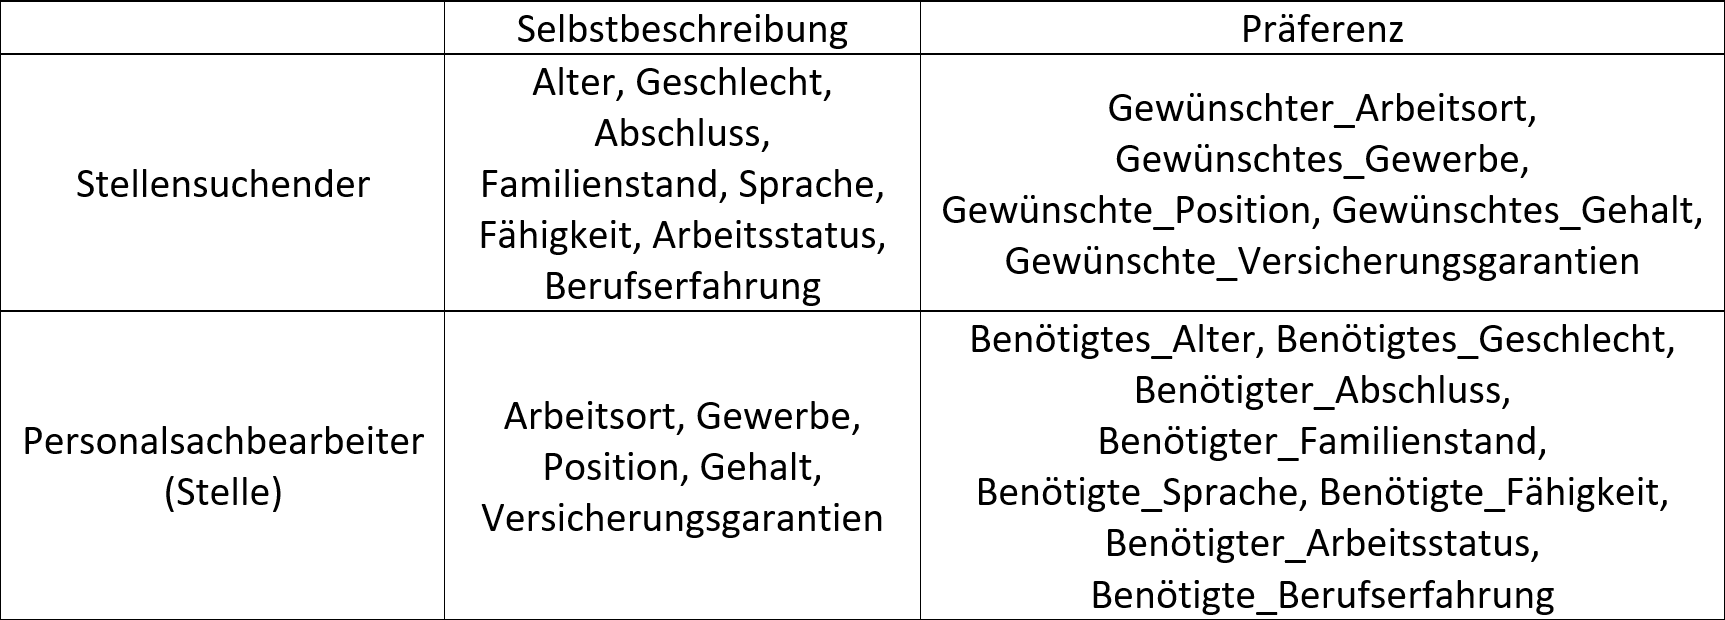
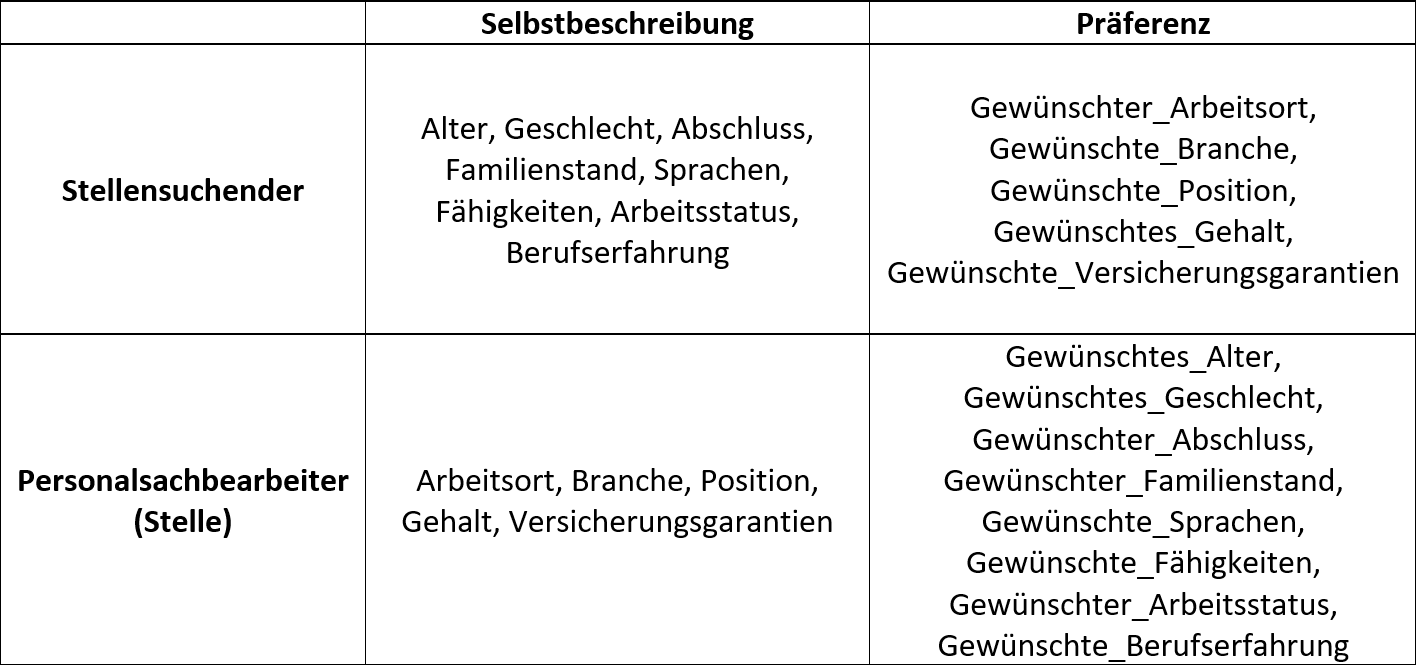
WIP Kapitel 4

diff --git a/chapters/verwandteArbeiten.tex b/chapters/verwandteArbeiten.tex
@@ -1,11 +1,11 @@
 \shorthandoff{"}
 \chapter{Verwandte Arbeiten}
 \label{ch:verwandteArbeiten}
-Bei der Literaturanalyse ist festzustellen, dass bereits einige Publikationen den Anspruch verfolgten, Empfehlungssysteme zur automatisierten Bestimmung des \acp{PJFit} zu entwickeln. Aus dem Blickwinkel der Organisationspsychologie handelt es sich bei diesem Begriff um eine Version des \acp{PEFit}, bei welcher für die Umgebung die Aspekte einer Stelle betrachtet werden \cite[S. 1ff.]{edwards:1991}\cite[S. 3]{malinowski:2006}. Jedoch bezogen sich einige Forscher in ihren Veröffentlichungen nicht auf das in Kapitel \ref{ch:personEnvironmentFit} vorgestellte Konzept der Psychologie. Obwohl der Begriff des \acp{PJFit} verwendet wurde, bestimmten die Wissenschaftler die Kongruenz häufig ausschließlich auf der Ebene des Anforderungen-Fähigkeiten Fits. Dieser Sachverhalt ist beispielsweise in den Publikationen von \textcite[S. 1ff.]{luo:2019}, \textcite[S. 1ff.]{qin:2018} und \textcite[S. 1ff.]{personJobFit:2018} zu beobachten.
+Bei der Literaturanalyse ist festzustellen, dass bereits einige Publikationen den Anspruch verfolgten, Empfehlungssysteme zur automatisierten Bestimmung des \acp{PJFit} zu entwickeln. Aus dem Blickwinkel der Organisationspsychologie handelt es sich bei diesem Begriff um eine Version des \acp{PEFit}, bei welcher für die Umgebung die Aspekte einer Stelle betrachtet werden \cite[S. 1ff.]{edwards:1991}\cite[S. 3]{malinowski:2006}. Jedoch bezogen sich einige Forscher in ihren Veröffentlichungen nicht auf das in Kapitel \ref{ch:personEnvironmentFit} vorgestellte Konzept der Psychologie. Obwohl der Begriff des \acp{PJFit} verwendet wurde, bestimmten die Wissenschaftler die Kongruenz häufig ausschließlich auf der Ebene des Anforderungen-Fähigkeiten Fits. Dieser Sachverhalt ist beispielsweise bei \textcite[S. 1ff.]{luo:2019}, \textcite[S. 1ff.]{qin:2018} und \textcite[S. 1ff.]{personJobFit:2018} zu beobachten.
 
 \section{Nicht auf dem P-E Fit basierende Systeme}
 \label{ch:verwandteArbeiten:nichtAufDemPEFitBasierend}
-\textcite[S. 1, Z. 1f.]{personJobFit:2018} definierten den \ac{PJFit} als den "Prozess, bei dem das richtige Talent mit der richtigen Stelle zusammengeführt wird, indem die Talentkompetenzen identifiziert werden, welche für die Stelle erforderlich sind."\footnote{"process of matching the right talent for the right job by identifying talent competencies that are required for the job." - \textcite[S. 1, Z. 1f.]{personJobFit:2018}} Dementsprechend implementierten \textcite[S. 1ff.]{personJobFit:2018}, wie auch \textcite[S. 1ff.]{luo:2019} und \textcite[S. 1ff.]{qin:2018}, ein neuronales Netz, welches voraussagte, ob eine Person aufgrund ihrer Qualifikationen für eine Stelle geeignet ist. Hierfür bereiteten sie unstrukturierte Stellenausschreibungen und Lebensläufe strukturiert auf. Anschließend nutzten die drei Forschungsgruppen die gewonnenen Daten, um anhand verschiedener Verfahren vorauszusagen, ob die Fähigkeiten der Kandidaten die Anforderungen offener Stellen erfüllen \cite[S. 1ff.]{luo:2019}\cite[S. 1ff.]{qin:2018}\cite[S. 1ff.]{personJobFit:2018}.%Somit implementierten diese Wissenschaftler ausschließlich Lösungen zur Bestimmung des Anforderungen-Fähigkeiten Fits.
+\textcite[S. 1, Z. 1f.]{personJobFit:2018} definierten den \ac{PJFit} als den "Prozess, bei dem das richtige Talent mit der richtigen Stelle zusammengeführt wird, indem die Talentkompetenzen identifiziert werden, welche für die Stelle erforderlich sind."\footnote{"process of matching the right talent for the right job by identifying talent competencies that are required for the job." - \textcite[S. 1, Z. 1f.]{personJobFit:2018}} Dementsprechend implementierten \textcite[S. 1ff.]{personJobFit:2018}, wie auch \textcite[S. 1ff.]{luo:2019} und \textcite[S. 1ff.]{qin:2018}, ein neuronales Netz, welches voraussagte, ob eine Person aufgrund ihrer Qualifikationen für eine Stelle geeignet ist. Hierfür bereiteten sie unstrukturierte Stellenausschreibungen und Lebensläufe strukturiert auf. Anschließend nutzten die drei Forschergruppen die gewonnenen Daten, um anhand verschiedener Verfahren vorauszusagen, ob die Fähigkeiten der Kandidaten die Anforderungen verschiedener offener Stellen erfüllen \cite[S. 1ff.]{luo:2019}\cite[S. 1ff.]{qin:2018}\cite[S. 1ff.]{personJobFit:2018}.%Somit implementierten diese Wissenschaftler ausschließlich Lösungen zur Bestimmung des Anforderungen-Fähigkeiten Fits.
 
 Empfehlungssysteme, welche neben den Präferenzen der Personalverantwortlichen an die Fähigkeiten potentieller Mitarbeiter auch die Wünsche der Kandidaten berücksichtigen, bezeichneten \textcite[S. 4]{malinowski:2006} als bilaterale Empfehlungssysteme. Solche Anwendungen beziehen neben dem Anforderungen-Fähigkeiten Fit folglich auch die Bedürfnisse-Angebote Kongruenz in den Vorschlagsprozess ein. Verschiedene Forschergruppen aus dem Umfeld von \textcite[S. 1ff.]{malinowski:2006} entwickelten mehrere bilaterale Recommender Engines, welche in unterschiedlichen Publikationen vorgestellt wurden. Dabei bezogen sich die Wissenschaftler auf das in Kapitel \ref{ch:personEnvironmentFit} vorgestellte Konzept des \acp{PEFit} \cite[S. 4f.]{keim:2007}\cite[S. 3f.]{keim:2005}\cite[S. 3f.]{malinowski:2005}\cite[S. 3f.]{malinowski:2006}\cite[S. 3ff.]{malinowski:2008}. Alle diese Implementierungsmethoden basieren auf einem von \textcite[S. 1ff.]{faerber:2003} vorgestellten Empfehlungssystem.
 
@@ -24,19 +24,19 @@ Empfehlungssysteme, welche neben den Präferenzen der Personalverantwortlichen a
 	\label{fig:verwandteArbeiten:abb1}
 \end{figure}
 
-In Abbildung \ref{fig:verwandteArbeiten:abb1} stand $a$ für Attribute aus dem Lebenslauf des Bewerbers, wie dem Namen seiner Hochschule oder der Abschlussnote seines Studiums \cite[S. 4]{malinowski:2006}. Variable $x$ symbolisierte einen Personalsachbearbeiter mitsamt eines Stellenprofils, welches dieser besetzen soll. Dessen Entscheidung, ob ein Bewerber für die Tätigkeit qualifiziert ist oder nicht, wurde über den booleschen Wert $v$ ausgedrückt \cite[S. 6ff.]{faerber:2003}.
+In Abbildung \ref{fig:verwandteArbeiten:abb1} steht $a$ für Attribute aus dem Lebenslauf eines Bewerbers, wie dem Namen seiner Hochschule oder der Abschlussnote seines Studiums \cite[S. 4]{malinowski:2006}. Variable $x$ symbolisiert einen Personalsachbearbeiter mitsamt eines Stellenprofils, welches dieser besetzen soll. Dessen Entscheidung, ob ein Bewerber für die Tätigkeit qualifiziert ist oder nicht, wird über den booleschen Wert $v$ ausgedrückt \cite[S. 6ff.]{faerber:2003}.
 
 \textcite[S. 4ff.]{faerber:2003} bestimmten aus diesen Faktoren ein latentes Variablenmodell. Hierbei wurden bekannte Entscheidungen eines Personalsachbearbeiters hinsichtlich der Eignung von Bewerbern für eine Stelle erfasst. Aus diesen wurden nicht direkt messbare Variablen $z$ abgeleitet, welche dessen Beurteilungen beeinflussten. Über die latenten Variablen $z$ und die Attribute $a$ bestimmten die Autoren Wahrscheinlichkeiten, mit welchen ein Personalsachbearbeiter die vorliegenden Attribute eines Kandidaten als qualifiziert oder unqualifiziert bewerten würde \cite[S. 4ff.]{faerber:2003}.
 
-Diesen Empfehlungsansatz nutzten \textcite[S. 4f.]{malinowski:2006} als Grundlage für ein neues Empfehlungssystem. Die Wissenschaftler stellten eine bilaterale Anwendung vor, welche neben den Präferenzen der Personalsachbearbeiter auch die Wünsche der Kandidaten berücksichtigen sollte.
+Diesen Empfehlungsansatz nutzten \textcite[S. 4f.]{malinowski:2006} als Grundlage für ein neues Empfehlungssystem. Die Wissenschaftler stellten eine bilaterale Anwendung vor, welche neben den Präferenzen der Personalsachbearbeiter auch die Wünsche der Kandidaten berücksichtigte.
 
 \subsection{Einbeziehung von Präferenzen der Kandidaten}
 \label{ch:verwandteArbeiten:aufDemPEFitBasierendeBilateraleSysteme:einbeziehungKandidaten}
 Um neben den Präferenzen der Personalsachbearbeiter auch die Wünsche der Kandidaten in den Vorschlagsprozess einzubeziehen, erweiterten \textcite[S. 4f.]{malinowski:2006} das von \textcite[S. 4ff.]{faerber:2003} entwickelte Empfehlungssystem um eine zusätzliche Komponente für Stellensuchende. Diese orientierte sich ebenfalls am Aufbau von Abbildung \ref{fig:verwandteArbeiten:abb1}. Bei der neuen Komponente stand $x$ für den Kandidaten und $a$ für die Attribute der Stellenausschreibung. Auch hier bestimmten die Forscher latente Variablen $z$, welche sie über vergangene Stellenprofil-Bewertungen von Studenten ermittelten. Über diese sagten sie voraus, mit welcher Wahrscheinlichkeit ein Kandidat eine Stelle als passend zu seinen Präferenzen bewerten würde \cite[S. 4f.]{malinowski:2006}.
 
-Bei einer Evaluation des Systems stellten \textcite[S. 6f.]{malinowski:2006} fest, dass die Ergebnisse der Komponente zur Empfehlung von Kandidaten nahezu vergleichbar zur manuellen Auswahl eines menschlichen Personalsachbearbeiters waren. Auch beim Stellenempfehlungssystem kamen die Wissenschaftler zu der Erkenntnis, dass die Ergebnisse bis auf wenige Ausnahmen vergleichbar zur manuellen Selektion der Kandidaten waren. \textcite[S. 7]{keim:2007} bestätigte ebenfalls, dass beide Empfehlungsmodule eine hohe Genauigkeit aufweisen konnten.
+Bei einer Evaluation des Systems stellten \textcite[S. 6f.]{malinowski:2006} fest, dass die Ergebnisse der Komponente zur Empfehlung von Kandidaten nahezu vergleichbar zur manuellen Auswahl eines menschlichen Personalsachbearbeiters waren. Auch beim Stellenempfehlungssystem kamen die Wissenschaftler zu der Erkenntnis, dass die Ergebnisse bis auf wenige Ausnahmen vergleichbar zur manuellen Selektion der Kandidaten waren.%\textcite[S. 7]{keim:2007} bestätigte ebenfalls, dass beide Empfehlungsmodule eine hohe Genauigkeit aufweisen konnten.
 
-Zum Vorgehen von \textcite[S. 3ff.]{malinowski:2006} ist festzustellen, dass das bilaterale Empfehlungssystem ursprünglich in Anlehnung an das Konzept des \acp{PEFit} entwickelt wurde. Dabei sollten sowohl Präferenzen von Personalsachbearbeitern als auch Wünsche von Stellensuchenden berücksichtigt werden. Allerdings ist es in der vorgestellten Anwendung nur möglich, entweder zu den Präferenzen von Personalsachbearbeitern passende Kandidaten oder mit den Wünschen von Bewerbern kompatible Stellen zu ermitteln. Es ist nicht vorgesehen, Kandidaten für Positionen zu empfehlen und dabei gleichzeitig die Präferenzen von Bewerbern und Personalsachbearbeitern zu berücksichtigen. Daher ist kritisch anzumerken, dass die Anwendung von \textcite[S. 3ff.]{malinowski:2006} zwar die Präferenzen beider Parteien einbezog, dieses Vorgehen aber nicht der Theorie des \acp{PEFit} entspricht.
+Zum Vorgehen von \textcite[S. 3ff.]{malinowski:2006} ist festzustellen, dass das bilaterale Empfehlungssystem ursprünglich in Anlehnung an das Konzept des \acp{PEFit} entwickelt wurde. Dabei sollten sowohl Präferenzen von Personalsachbearbeitern als auch Wünsche von Stellensuchenden berücksichtigt werden. Allerdings ist es in der vorgestellten Anwendung nur möglich, entweder zu den Präferenzen von Personalsachbearbeitern passende Kandidaten oder mit den Wünschen von Bewerbern kompatible Stellen zu ermitteln. Es ist nicht vorgesehen, Kandidaten für Positionen zu empfehlen und dabei gleichzeitig die Präferenzen von Bewerbern und Personalsachbearbeitern zu berücksichtigen. Daher ist kritisch anzumerken, dass die Anwendung von \textcite[S. 1ff.]{malinowski:2006} zwar die Präferenzen beider Parteien einbezog, dieses Vorgehen aber nicht der Theorie des \acp{PEFit} entspricht.
 
 Ein Empfehlungssystem, welches das Konzept des \acp{PEFit} dagegen erfüllte, stellten \textcite[S. 1ff.]{malinowski:2005} in einer anderen Publikation vor.
 
@@ -75,13 +75,13 @@ Im letzten Schritt des Systems errechneten \textcite[S. 9f.]{malinowski:2005} au
 	R' = \alpha * t'_{M*y} * (1-\alpha) * r'_{x,y,v}
 	\label{frml:verwandteArbeiten:formel2}
 \end{equation}
-In Formel \ref{frml:verwandteArbeiten:formel2} stand $t'_{M*y}$ für die Liste der Vertrauensbeziehungen und $r'_{x,y,v}$ für die fachlichen Bewertungen der Kandidaten. Für $\alpha$ setzten \textcite[S. 4ff.]{malinowski:2005} den Wert 0.5 ein. Kritisch merkten sie zu Formel \ref{frml:verwandteArbeiten:formel2} an, dass diese noch nicht optimal sei und weiterer Forschung bedarf \cite[S. 9]{malinowski:2005}.
+In Formel \ref{frml:verwandteArbeiten:formel2} steht $t'_{M*y}$ für die Liste der Vertrauensbeziehungen und $r'_{x,y,v}$ für die fachlichen Bewertungen der Kandidaten. Für $\alpha$ setzten \textcite[S. 4ff.]{malinowski:2005} den Wert 0.5 ein. Kritisch merkten sie zu Formel \ref{frml:verwandteArbeiten:formel2} an, dass diese noch nicht optimal sei und weiterer Forschung bedarf \cite[S. 9]{malinowski:2005}.
 
 Eine Evaluation des Gesamtsystems konnte in der Literatur nicht identifiziert werden. In der Publikation von \textcite[S. 13ff.]{malinowski:2008} findet sich lediglich eine Validierung der Komponente zur Berechnung des Vertrauens zwischen Teammitgliedern und potentiellen Kandidaten. Hierbei kamen die Wissenschaftler zu der Erkenntnis, dass deren System eine höhere Genauigkeit als eine zufällige Vorhersage aufweisen konnte. Allerdings merkten die Forscher an, dass ihre Testgruppe mit 21 Teilnehmern zu klein sei, um signifikante Resultate zu erzielen \cite[S. 13ff.]{malinowski:2008}. Die Autoren validierten gemäß der Forschungsfrage dieser Master-Thesis jedoch nicht, ob die erwarteten Ergebnisse des \acp{PEFit} von deren Empfehlungssystem reproduziert werden konnten. Somit bleibt ungewiss, ob auf Seiten der Personalsachbearbeiter die erwartete Arbeitsleistung der vorgeschlagenen Kandidaten und aus Perspektive der Mitarbeiter die Zufriedenheit mit der Stelle und den Teamkollegen zunahm.
 
 Die Berechnung der gegenseitigen Vertrauensbeziehungen zwischen bestehenden Teammitgliedern und potentiellen Kandidaten nutzte auch \textcite[S. 1ff.]{keim:2007}. Er präsentierte ein Framework, welches Personen in passende Projektteams einordnen und dabei sowohl Fähigkeiten als auch zwischenmenschliche Attribute berücksichtigen sollte \cite[S. 1ff.]{keim:2007}.
 
-\subsection{Framework zur Bestimmung von Person-Job und Person-Team Fit}
+\subsection{Mehrschichtiges Framework}
 \label{ch:verwandteArbeiten:aufDemPEFitBasierendeBilateraleSysteme:pjUndPtFit}
 Das von \textcite[S. 5]{keim:2007} vorgestellte Framework ist in Abbildung \ref{fig:verwandteArbeiten:abb3} dargestellt. Es bestand aus drei Schichten.
 
@@ -93,11 +93,11 @@ Das von \textcite[S. 5]{keim:2007} vorgestellte Framework ist in Abbildung \ref{
 	\label{fig:verwandteArbeiten:abb3}
 \end{figure}
 
-In Abbildung \ref{fig:verwandteArbeiten:abb3} ist zu erkennen, dass sich die mittlere Schicht des Frameworks von \textcite[S. 5ff.]{keim:2007} aus vier Komponenten zusammensetzte. Diese vier Module luden die Daten der untersten Schicht und filterten sie entsprechend ihrer Funktion. Dabei unterstützten die beiden auf der linken Seite abgebildeten Module die Stellen- bzw. Kandidatensuche. Die Komponenten der rechten Seite erleichterten die Bestimmung geeigneter Teampartner \cite[S. 5]{keim:2007}.
+In Abbildung \ref{fig:verwandteArbeiten:abb3} ist zu erkennen, dass sich die mittlere Schicht des Frameworks von \textcite[S. 5ff.]{keim:2007} aus vier Komponenten zusammensetzte. Diese vier Module luden die Daten der untersten Schicht und filterten diese entsprechend ihrer Funktion. Dabei unterstützen die beiden auf der linken Seite abgebildeten Module die Stellen- bzw. Kandidatensuche und die Komponenten der rechten Seite erleichterten die Bestimmung geeigneter Teampartner \cite[S. 5]{keim:2007}.
 
-Das Lebenslaufempfehlungssystem in Abbildung \ref{fig:verwandteArbeiten:abb3} entsprach der von \textcite[S. 8ff.]{faerber:2003} entwickelten Anwendung \cite[S. 6]{keim:2007}, welche in Kapitel \ref{ch:verwandteArbeiten:aufDemPEFitBasierendeBilateraleSysteme:grundlegendesEmpfelungssystem} vorgestellt wurde. Beim Stellenempfehlungssystem handelte es sich um die von \textcite[S. 4ff.]{malinowski:2006} adaptierte Version des Lebenslaufempfehlungssystems, mit welcher Personen zu ihren Präferenzen passende Stellenausschreibungen ermitteln konnten \cite[S. 6]{keim:2007}. Dieses wurde in Kapitel \ref{ch:verwandteArbeiten:aufDemPEFitBasierendeBilateraleSysteme:einbeziehungKandidaten} behandelt. Das vorhersagende Vertrauensmodul entsprach dem in Kapitel \ref{ch:verwandteArbeiten:aufDemPEFitBasierendeBilateraleSysteme:bilateraleVertrauensbestimmung} behandelten Ansatz zur Vorhersage von Vertrauensbeziehungen zwischen potentiellen Teammitgliedern \cite[S. 8]{keim:2007}. Dieses wurde in den Publikationen von \textcite[S. 5ff.]{keim:2005} und \textcite[S. 4ff.]{malinowski:2005} detailliert vorgestellt. Das beschreibende Vertrauensmodul erfasste explizit vergebene Vertrauensbewertungen von Teammitgliedern in Form einer Ontologie und repräsentierte diese optisch in Form eines Graphen. Über diese Darstellung konnten Anwender soziale Beziehungen durchsuchen und analysieren. Auf diese Weise sollten sie besser entscheiden können, mit welchen Personen sie eine Zusammenarbeit eingehen möchten \cite[S. 7]{keim:2007}.
+Das Lebenslaufempfehlungssystem in Abbildung \ref{fig:verwandteArbeiten:abb3} entsprach der von \textcite[S. 8ff.]{faerber:2003} entwickelten Anwendung \cite[S. 6]{keim:2007}, welche in Kapitel \ref{ch:verwandteArbeiten:aufDemPEFitBasierendeBilateraleSysteme:grundlegendesEmpfelungssystem} vorgestellt wurde. Beim Stellenempfehlungssystem handelte es sich um die von \textcite[S. 4ff.]{malinowski:2006} adaptierte Version des Lebenslaufempfehlungssystems, mit welcher Personen zu ihren Präferenzen passende Stellenausschreibungen ermitteln können \cite[S. 6]{keim:2007}. Dieses wurde in Kapitel \ref{ch:verwandteArbeiten:aufDemPEFitBasierendeBilateraleSysteme:einbeziehungKandidaten} behandelt. Das vorhersagende Vertrauensmodul entsprach dem in Kapitel \ref{ch:verwandteArbeiten:aufDemPEFitBasierendeBilateraleSysteme:bilateraleVertrauensbestimmung} behandelten Ansatz zur Vorhersage von Vertrauensbeziehungen zwischen potentiellen Teammitgliedern \cite[S. 8]{keim:2007}. Dieses wurde von \textcite[S. 5ff.]{keim:2005} und \textcite[S. 4ff.]{malinowski:2005} detailliert vorgestellt. Das beschreibende Vertrauensmodul erfasste explizit vergebene Vertrauensbewertungen von Teammitgliedern in Form einer Ontologie und repräsentierte diese optisch in Form eines Graphen. Über diese Darstellung konnten Anwender soziale Beziehungen durchsuchen und analysieren. Auf diese Weise sollten sie besser entscheiden können, mit welchen Personen sie eine Zusammenarbeit eingehen möchten \cite[S. 7]{keim:2007}.
 
-Ähnlich zur Publikation von \textcite[S. 3ff.]{malinowski:2006} muss auch zur Veröffentlichung von \textcite[S. 5ff.]{keim:2007} kritisch bemerkt werden, dass die Forscher die Resultate der einzelnen Module nicht zu einem Ergebnis zusammenfassten. Die Implementierung der oben in Abbildung \ref{fig:verwandteArbeiten:abb3} dargestellten Aggregationsebene, welche bilaterale Empfehlungen ermöglichen würde, ließen die Wissenschaftler offen \cite[S. 8]{keim:2007}.
+Ähnlich zur Publikation von \textcite[S. 3ff.]{malinowski:2006} muss auch zur Veröffentlichung von \textcite[S. 5ff.]{keim:2007} kritisch bemerkt werden, dass der Forscher die Resultate der einzelnen Module nicht zu einem Ergebnis zusammenfasste. Die Implementierung der oben in Abbildung \ref{fig:verwandteArbeiten:abb3} dargestellten Aggregationsebene, welche bilaterale Empfehlungen ermöglichen würde, ließ der Wissenschaftler offen \cite[S. 8]{keim:2007}.
 %Das von \textcite{keim:2007} vorgestellte System enthielt mit dem beschreibenden und dem vorhersagenden Vertrauensmodul somit zwar Komponenten, welche bilaterale Vertrauensbeziehungen modellieren bzw. bei der Empfehlungsbestimmung berücksichtigten. Damit handelte es sich bei der Suche nach potentiell vertrauenswürdigen Teamkollegen um einen bilateralen Prozess, da Präferenzen von bestehenden Teammitgliedern und potentiellen Kandidaten berücksichtigt wurden. Es wurde jedoch nicht beachtet, ob die Person auch fachlich für die Stelle geeignet war oder ob die Position inhaltlich den Vorstellungen des Kandidaten entsprach.
 %Zusammenfassend ist zu den Publikationen aus dem Umfeld von \textcite[S. 1ff.]{malinowski:2006} festzustellen, dass diese einige Empfehlungssysteme mit Bezug auf den \ac{PEFit} entwickelten. Deren Anwendungen unterstützten insbesondere die Auswahl fachlich geeigneter Stellen bzw. Kandidaten und die Zusammenführung einzelner Personen mit bestehenden Teams. Jedoch muss kritisch bemerkt werden, dass die einzelnen Module meist keine bilateralen Empfehlungen generierten. Eine dafür benötigte Integration der einzelnen Ansätze wurde nur in Ausnahmefällen wie beispielsweise von \textcite[S. 4ff.]{malinowski:2005} vorgenommen. Diese wählten Kandidaten entsprechend der fachlichen Präferenzen von Personalsachbearbeitern aus und sortieren diese unter Beachtung des gegenseitigen Vertrauens mit den potentiellen Teammitgliedern. In den vorliegenden Publikationen konnte keine Methode identifiziert werden, bei welcher eine Anwendung Stellen passend zu den fachlichen Präferenzen von Personalsachbearbeitern und Kandidaten bestimmte.
 
@@ -107,7 +107,7 @@ Neben den im vorherigen Kapitel \ref{ch:verwandteArbeiten:aufDemPEFitBasierendeB
 
 Der Begriff der wechselseitigen Empfehlungssysteme wurde erstmals von \textcite[S. 1]{pizzato:2010} eingeführt, welche eine Recommender Engine im Bereich des Online-Datings entwickelten \cite[S. 1]{wenxing:2015}. Die Autoren verwendeten dabei die Bezeichnung der Wechselseitigkeit, da ihr System sowohl die Präferenzen des aktiven Nutzers als auch der potentiellen Partner gleichermaßen berücksichtigen sollte \cite[S. 1]{pizzato:2010}. In ihrer Publikation nannten \textcite[S. 3]{pizzato:2010} die Veröffentlichung von \textcite[S. 1ff.]{malinowski:2006} als verwandte Arbeit. Hierzu stellten sie fest, dass auch bilaterale Empfehlungssysteme die Präferenzen von zwei Parteien betrachten. Eine klare Unterscheidung zwischen bilateralen und wechselseitigen Empfehlungssystemen nahmen die Autoren jedoch nicht vor \cite[S. 3]{pizzato:2010}. Erst in einer späteren Publikation hielten \textcite[S. 8]{pizzato:2013} eindeutig fest, dass wechselseitig und bilateral zwei unterschiedliche Begriffe für dasselbe Konzept von Empfehlungssystemen sind.
 
-Ein wechselseitiges Empfehlungssystem zum \ac{PJFit} stellten \textcite[S. 1ff.]{wenxing:2015} vor. Diese Autoren bezogen sich in ihrer Veröffentlichung nicht explizit auf das Konzept des \acp{PEFit}. Dennoch entwickelten sie ein System zur Stellenbesetzung, welches sowohl Präferenzen von Stellensuchenden als auch Personalsachbearbeiter gleichermaßen in den Vorschlagsprozess einbezog. Wie in Abbildung \ref{fig:verwandteArbeiten:nichtAufDemPEFitBasierendeBilateraleSysteme:abb1} dargestellt, teilte die Anwendung die hinterlegten Informationen der beiden Nutzergruppen in die Kategorien Selbstbeschreibung und Präferenz \cite[S. 2]{wenxing:2015}.
+Ein wechselseitiges Empfehlungssystem zum \ac{PJFit} stellten \textcite[S. 1ff.]{wenxing:2015} vor. Diese Autoren bezogen sich in ihrer Veröffentlichung nicht explizit auf das Konzept des \acp{PEFit}. Dennoch entwickelten sie ein System zur Stellenbesetzung, welches sowohl Präferenzen von Stellensuchenden als auch Personalsachbearbeitern gleichermaßen in den Vorschlagsprozess einbezog. Wie in Abbildung \ref{fig:verwandteArbeiten:nichtAufDemPEFitBasierendeBilateraleSysteme:abb1} dargestellt, teilte die Anwendung die hinterlegten Informationen der beiden Nutzergruppen in die Kategorien Selbstbeschreibung und Präferenz \cite[S. 2]{wenxing:2015}.
 
 \begin{figure}[h]
 	\centering
@@ -117,19 +117,19 @@ Ein wechselseitiges Empfehlungssystem zum \ac{PJFit} stellten \textcite[S. 1ff.]
 	\label{fig:verwandteArbeiten:nichtAufDemPEFitBasierendeBilateraleSysteme:abb1}
 \end{figure}
 
-Wie in Abbildung \ref{fig:verwandteArbeiten:nichtAufDemPEFitBasierendeBilateraleSysteme:abb1} zu erkennen, entsprach jedes Merkmal in der Selbstbeschreibung der Jobsuchenden einem Merkmal der Präferenzen der Personalsachbearbeiter und umgekehrt. Vorschläge bestimmte das Empfehlungssystem über die Kosinus-Ähnlichkeit, welche anhand von Gleichung \ref{fig:empfehlungssysteme:cf:speicherbasiert:formel1} in Kapitel \ref{ch:empfehlungssysteme:cf:speicherbasiert} vorgestellt wurde. Zur Berechnung der Gleichartigkeit stellte die Anwendung die Merkmale der Nutzer in Form von Vektoren dar. Zur Vorschlagsbestimmung für Stellensuchende bestimmte das System in einem ersten Schritt die Ähnlichkeit zwischen der Selbstbeschreibung des zugreifenden Anwenders und den Präferenzen aller verfügbaren Personalsachbearbeiter. In einem zweiten Schritt wurde die Ähnlichkeit zwischen den Selbstbeschreibungen aller Personalsachbearbeiter und den Präferenzen des zugreifenden Nutzers bestimmt. In einem letzten Schritt addierte das System die in den beiden vorherigen Rechenschritten erhaltenen Ähnlichkeiten zwischen zugreifendem Nutzer und Personalsachbearbeitern auf. Anschließend gab es die $N$ Personalverantwortlichen zurück, bei welchen die höchste Gleichartigkeit mit dem Stellensuchenden bestimmt werden konnte. Die Berechnung der relevantesten Kandidaten aus Sicht der Personalsachbearbeiter erfolgte analog \cite[S. 2f.]{wenxing:2015}.
+Wie in Abbildung \ref{fig:verwandteArbeiten:nichtAufDemPEFitBasierendeBilateraleSysteme:abb1} zu erkennen, entsprach jede Variable in der Selbstbeschreibung der Jobsuchenden einem Merkmal der Präferenzen der Personalsachbearbeiter und umgekehrt. Vorschläge bestimmte das Empfehlungssystem über die Kosinus-Ähnlichkeit, welche anhand von Gleichung \ref{fig:empfehlungssysteme:cf:speicherbasiert:formel1} in Kapitel \ref{ch:empfehlungssysteme:cf:speicherbasiert} vorgestellt wurde. Zur Berechnung der Gleichartigkeit stellte die Anwendung die Merkmale der Nutzer in Form von Vektoren dar. Zur Vorschlagsbestimmung für Stellensuchende bestimmte das System in einem ersten Schritt die Ähnlichkeit zwischen der Selbstbeschreibung des zugreifenden Anwenders und den Präferenzen aller verfügbaren Personalsachbearbeiter. In einem zweiten Schritt wurde die Ähnlichkeit zwischen den Selbstbeschreibungen aller Personalsachbearbeiter und den Präferenzen des zugreifenden Nutzers bestimmt. In einem letzten Schritt addierte das System die in den beiden vorherigen Rechenschritten erhaltenen Ähnlichkeiten zwischen zugreifendem Nutzer und Personalsachbearbeitern auf. Anschließend gab es die $N$ Personalverantwortlichen zurück, bei welchen die höchste Gleichartigkeit mit dem Stellensuchenden bestimmt werden konnte. Die Berechnung der relevantesten Kandidaten aus Sicht der Personalsachbearbeiter erfolgte analog \cite[S. 2f.]{wenxing:2015}.
 
-Positiv ist zum Vorgehen von \textcite[S. 1ff.]{wenxing:2015} anzumerken, dass dieses das Konzept des \acp{PEFit} sehr exakt erfüllte, auch wenn sich die Wissenschaftler nicht direkt auf diese Theorie bezogen. So fand auf Seiten beider Anwendergruppen eine eindeutige Einteilung in Nachfrage- und Angebotsperspektive statt, welche bei der Berechnung von Empfehlungen gleichermaßen berücksichtigt wurden.
+Positiv ist zum Vorgehen von \textcite[S. 1ff.]{wenxing:2015} anzumerken, dass es das Konzept des \acp{PEFit} sehr exakt erfüllte, auch wenn sich die Wissenschaftler nicht direkt auf diese Theorie bezogen. So fand auf Seiten beider Anwendergruppen eine eindeutige Einteilung in Nachfrage- und Angebotsperspektive statt, welche bei der Berechnung von Empfehlungen gleichermaßen berücksichtigt wurden.
 
 Kritisch ist festzustellen, dass die in Abbildung \ref{fig:verwandteArbeiten:nichtAufDemPEFitBasierendeBilateraleSysteme:abb1} dargestellten Präferenzen von den Nutzern nicht, wie in Kapitel \ref{ch:personEnvironmentFit:wichtigkeiten} empfohlen, gewichtet wurden. Somit arbeitete das Empfehlungssystem mit der impliziten Prämisse, dass jede ermittelte Präferenz gleich wichtig sei. Außerdem wurde nicht evaluiert, ob das wechselseitige Empfehlungssystem wie geplant zu einer "Win-win Situation"\footnote{"win-win situation" - \textcite[S. 3, Z. 45f.]{wenxing:2015}} \cite[S. 3, Z. 45f.]{wenxing:2015} führte. So wäre es auch denkbar, dass das System statt eines gemeinsamen optimalen Ergebnisses einen kleinsten gemeinsamen Nenner bestimmte, mit welchem weder Stellensuchende noch Personalsachbearbeiter zufrieden waren.
 
 Eine Evaluation führten jedoch \textcite[S. 1ff.]{hong:2013b} mit einem Vorgängersystem der vorgestellten Anwendung durch. Hierbei bestimmten die Wissenschaftler wechselseitige Empfehlungen mit einem hybriden System, welches die Ergebnisse von kollaborativem Filtern, inhaltsbasiertem Filtern und einem Greedy-Algorithmus kombinierte. In der Evaluation verglichen die Forscher die Nutzererfahrung ihres wechselseitigen Empfehlungssystems mit dem rein klassischen kollaborativen und dem rein inhaltsbasierten Filtern anhand einer Nutzerstudie. Das wechselseitige Empfehlungssystem wurde hierbei in den Punkten Interpretierbarkeit, Diversität und Sortierung besser als die beiden anderen Methoden bewertet. Unter dem Gesichtspunkt der Relevanz stuften die Nutzer die Ergebnisse des wechselseitigen Empfehlungssystems jedoch lediglich als ähnlich relevant zu den Resultaten des klassischen kollaborativen Filterns ein \cite[S. 1ff.]{hong:2013b}. Somit ist fraglich, ob die Realisierung des wechselseitigen Empfehlungssystems aus wirtschaftlicher Sicht lohnenswert war. Außerdem muss kritisiert werden, dass die Bewertungen nicht nach Nutzergruppen aufgeschlüsselt wurden. Somit ist nicht feststellbar, ob die Ergebnisse von Personalsachbearbeitern und Stellensuchenden voneinander abwichen.
 
-Im Sinne des \acp{PEFit} muss darüber hinaus angemerkt werden, dass die Relevanz für sämtliche Nutzer anhand gleicher Fragen erhoben wurde. Somit kann nicht festgestellt werden, ob das wechselseitige Empfehlungssystem aus Sicht der Personalsachbearbeiter zu einer höheren erwarteten Arbeitsleistung und aus Perspektive der Angestellten zu einer gesteigerten Zufriedenheit führte.
+Im Sinne des \acp{PEFit} muss darüber hinaus angemerkt werden, dass die Relevanz für sämtliche Nutzer anhand gleicher Fragen erhoben wurde. Somit kann nicht festgestellt werden, ob das wechselseitige Empfehlungssystem aus Sicht zu einer höheren erwarteten Arbeitsleistung der Mitarbeiter seitens der Personalsachbearbeiter und aus Perspektive der Angestellten zu einer gesteigerten Zufriedenheit führte.
 \newpage
 \section{Graphenbasiertes Empfehlungssystem}
 \label{ch:verwandteArbeiten:nichtAufDemPEFitBasierendeBilateraleSysteme:lu:2013}
-Ein weiteres Empfehlungssystem präsentierten \textcite[S. 1ff.]{lu:2013}. Sie generierten Vorschläge über einen graphenbasierten Ansatz unter Beachtung der Interessen von Kandidaten und Arbeitgebern. Ihr System bezeichneten sie jedoch weder explizit als wechselseitig, noch als bilateral. \textcite[S. 1ff.]{lu:2013} erstellten ein Jobportal auf Basis eines Graphen, in welchem Stellensuchende, Arbeitgeber und Jobausschreibungen in Form von Knoten existierten. Eine beispielhafte Darstellung zeigt Abbildung \ref{fig:verwandteArbeiten:nichtAufDemPEFitBasierendeBilateraleSysteme:lu:2013:abb1}.
+Ein weiteres Empfehlungssystem präsentierten \textcite[S. 1ff.]{lu:2013}. Sie generierten Vorschläge über einen graphenbasierten Ansatz unter Beachtung der Interessen von Kandidaten und Arbeitgebern. Ihr System bezeichneten sie jedoch weder explizit als wechselseitig noch als bilateral. \textcite[S. 1ff.]{lu:2013} erstellten ein Jobportal auf Basis eines Graphen, in welchem Stellensuchende, Arbeitgeber und Stellenausschreibungen in Form von Knoten existierten. Abbildung \ref{fig:verwandteArbeiten:nichtAufDemPEFitBasierendeBilateraleSysteme:lu:2013:abb1} zeigt eine beispielhafte Darstellung.
 
 \begin{figure}[h]
 	\centering
@@ -139,14 +139,12 @@ Ein weiteres Empfehlungssystem präsentierten \textcite[S. 1ff.]{lu:2013}. Sie g
 	\label{fig:verwandteArbeiten:nichtAufDemPEFitBasierendeBilateraleSysteme:lu:2013:abb1}
 \end{figure}
 
-Kanten wurden im Graphen aus Abbildung \ref{fig:verwandteArbeiten:nichtAufDemPEFitBasierendeBilateraleSysteme:lu:2013:abb1} für jede Interaktionen zwischen den Entitäten, wie dem Besuch eines Profils oder dem Bewerben auf eine Stelle, angelegt. Zusätzlich verfügte jede der dargestellten Entitäten über textuelle Profilbeschreibungen. Diese nutzten die Wissenschaftler als Grundlage für inhaltsbasierte Filterverfahren. Über diese bestimmten sie die Gleichartigkeit von Profilen und fügten bei hoher Ähnlichkeit zusätzliche Kanten in den Graphen ein. Über dieses Vorgehen behoben die Forscher die Problematik des Kaltstarts. Jede Kante im Graphen erhielt zudem ein bestimmtes Gewicht, sodass beispielsweise das Bewerben auf eine Stelle höher gewertet wurde als der Besuch eines Profils \cite[S. 1ff.]{lu:2013}.
+Kanten wurden im Graphen in Abbildung \ref{fig:verwandteArbeiten:nichtAufDemPEFitBasierendeBilateraleSysteme:lu:2013:abb1} für jede Interaktionen zwischen den Entitäten wie dem Besuch eines Profils oder dem Bewerben auf eine Stelle angelegt. Zusätzlich verfügte jede der dargestellten Entitäten über textuelle Profilbeschreibungen. Diese nutzten die Wissenschaftler als Grundlage für inhaltsbasierte Filterverfahren. Über diese bestimmten sie die Gleichartigkeit von Profilen und fügten bei hoher Ähnlichkeit zusätzliche Kanten in den Graphen ein. Über dieses Vorgehen behoben die Forscher die Problematik des Kaltstarts. Jede Kante im Graphen erhielt zudem ein bestimmtes Gewicht, sodass beispielsweise das Bewerben auf eine Stelle höher gewertet wurde als der Besuch eines Profils \cite[S. 1ff.]{lu:2013}.
 
 Ein auf dem PageRank basierender Algorithmus unterstützte Stellensuchende und Arbeitgeber auf Grundlage des Graphen bei der Auswahl geeigneter Ausschreibungen bzw. Kandidaten. In die Berechnung wurde ein Personalisierungsfaktor einbezogen, welcher die Wichtigkeit der direkten Nachbarn eines Zielknotens erhöhte. In der finalen Ergebnisliste entfernte das System die direkten Nachbarn des Nutzers, um ausschließlich Elemente zu empfehlen, welche dem Anwender bislang unbekannt waren \cite[S. 3]{lu:2013}.
 
 In einer Evaluation verglichen \textcite[S. 3f.]{lu:2013} die Genauigkeit ihres hybriden Systems mit den Ergebnissen des reinen kollaborativen und inhaltsbasierten Filterns. Hierbei stellten sie fest, dass ihr hybrider Empfehlungsansatz meist präzisere Ergebnisse liefern konnte als die beiden anderen Verfahren. Jedoch ist insbesondere bei der Empfehlung von Kandidaten für offene Stellen eine hohe Streuung in den Ergebnissen zu beobachten. So erzielte das hybride Empfehlungssystem bei dem Vorschlagen von Kandidaten für ein Stellenprofil eine Genauigkeit von 70 Prozent, während die inhaltsbasierte Recommender Engine lediglich 30 Prozent erzielte. Bei einem anderen Stellenprofil erreichte der hybride Ansatz dagegen nur eine Genauigkeit von 20 Prozent, während das inhaltsbasierte Verfahren 80 Prozent erzielte. Auf mögliche Ursachen dieser Abweichungen gingen \textcite[S. 1ff.]{lu:2013} nicht ein.
 
-Kritisch muss zur Evaluation außerdem festgestellt werden, dass die Genauigkeit der Empfehlungen manuell verifiziert wurde. Wie dieser Prozess ablief, wurde in der Veröffentlichung nicht erläutert. Somit ist es nicht eindeutig feststellbar, ob das Empfehlungssystem wie beim \ac{PEFit} prognostiziert, auf Seiten der Kandidaten zu einer ausgeprägteren Zufriedenheit und aus Sicht der Unternehmen zu einer höheren Leistung führte.
-
-Positiv ist zum Vorgehen von \textcite[S. 1ff.]{lu:2013} zu bemerken, dass diese mit sehr vielen impliziten Bewertungen arbeiteten. So ist der zu erwartende manuelle Nutzeraufwand zur Pflege von Präferenzen sehr gering.
+Kritisch muss außerdem festgestellt werden, dass die Autoren nicht ihre Vorgehensweise zur Evaluation der Anwendung erläuterten. Somit ist nicht feststellbar, ob das Empfehlungssystem auf Seiten der Kandidaten zu einer ausgeprägteren Zufriedenheit und aus Sicht der Unternehmen zu einer höheren Leistung führte. Positiv sind die zahlreichen impliziten Bewertungen zu bemerken, welche \textcite[S. 1ff.]{lu:2013} verwendeten. Durch diesen Ansatz ist der zu erwartende manuelle Nutzeraufwand für die Pflege von Präferenzen sehr gering.
 %Abschließend kann hinterfragt werden, ob die impliziten Daten zu aussagekräftigeren Ergebnissen führen als explizit hinterlegte Informationen. So wäre es vorstellbar, dass ein Nutzer häufig die Profile von Stellen oder Arbeitgebern besucht, bei welchen dieser nicht explizit ausdrücken kann, weshalb er diese präferiert. Hier könnte ein latentes Variablenmodell helfen, solche impliziten Vorlieben explizit festzustellen und in den weiteren Empfehlungsprozess einzubeziehen.
 \shorthandon{"}
